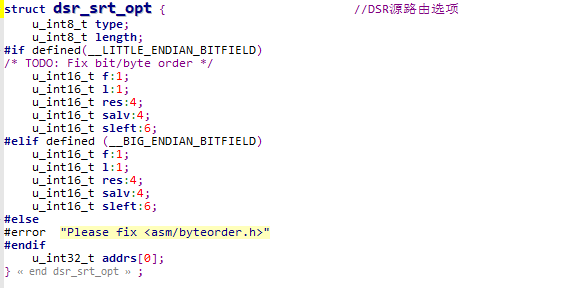
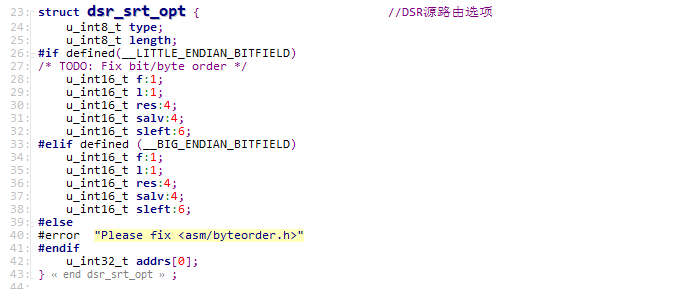
some progress

Changed region(s): [[0.0, 0.0, 0.4747, 1.0], [0.5637, 0.0, 0.801, 0.0625]]

diff --git a/homework/first.md b/homework/first.md
@@ -1,4 +1,4 @@
-##  概述
+# 概述
 
 DSR协议意为动态源路由协议，是在移动节点组成的多条无线自组网络中应用的路由协议。该协议主要由“路由发现”和“路由维护”两个机制组成。二者协同工作允许节点发现并维护到自组网中任一目的点的路由。协议的所有方面都是按需操作的，允许DSR路由数据包的开销自动适配到应对当前路由变化所需的大小。该协议允许到任一目的地的多条路由，并且允许每个发送方选择控制发送数据包时使用的路由。这种机制可用于实现负载平衡和增强数据传送的稳定性。
 
@@ -28,6 +28,8 @@ dsr_pkt_alloc(dsr-pkt.h)用于初始化一个包：
 
 ![avatar](E:\network\homework\添加选项头.png)
 
+	28-40: 首先定义每个选项头的固定部分，之后判断如果长度足够，则开始装载相关设置，将参数中缓冲区指针强制类型转换为一个指向DSR选项头的指针。Next header字段设置为数据分组的IP头的协议号，最后返回该指针。
+
 	发送包的节点在必要时向包添加DSR选项头，以携带路由协议所需的信息。一个包不能包含多于一个DSR选项头。DSR选项头通过执行以下步骤添加到包中：
 
 		1.在IP首部后面插入DSR选项头，但要在可能出现的任何其他首部之前插入。
@@ -38,14 +40,79 @@ dsr_pkt_alloc(dsr-pkt.h)用于初始化一个包：
 
 ### 1.3将DSR源路由选项添加进包中
 
-	DSR源路由选项结构体：
+RFC文档给出DSR源路由选项的定义:
+
+	![avatar](E:\network\homework\RFC源路由选项.png)
+
+DSR源路由选项结构体：
 
 ![avatar](E:\network\homework\DSR源路由选项.png)
+
+	23-42：sleft记录剩余路段的数量，即在到达最终目的地之前仍需要访问的中间节点的数量。变长数组addrs记录源路由的路径信息。其他字段同上。
+
+	发起分组的节点在需要时向分组添加DSR源路由选项，以便将来自该始发节点的源路由携带到分组的最终目的地址。
 
 添加源路由选项：
 
 ![avatar](E:\network\homework\添加源路由选项.png)
 
-	如果需要，发送数据包的节点向数据包中添加DSR源路由选项，以确保将源路由信息从该节点传送到数据包的最终目的地址。具体来说，添加DSR源路由选项的节点构造DSR源路由选项，并按照一下步骤修改IP数据包：
+	297-312：选项头固定部分定义，缓冲区长度判断及指针转换同上，然后开始装载选项字段，将类型设置为源路由选项，初始化长度，标志位，抢救次数等，随后数据分组中的地址被复制到DSR源路由选项中的addrs数组字段。
+
+	如果需要，发送数据包的节点向数据包中添加DSR源路由选项，以确保将源路由信息从该节点传送到数据包的最终目的地址。具体来说，添加DSR源路由选项的节点构造DSR源路由选项，并按照以下步骤修改IP数据包：
 
 		1.节点创建DSR源路由选项，并将其追加到包中的DSR选项头。
+
+		2.DSR源路由选项（n）中包含的Address[i]字段的数量是源路由中的中间节点数量。DSR源路由选项中的segment left字段初始化为n。
+
+		3.数据包源路由中的地址被复制到DSR源路由选项中的顺序地址[i]字段中，其中 i= 1,2,…,n。
+
+		4.DSR源路由选项中的(F)位(First Hop External)是从标记包源路由中第一跳的外部位复制的，如路由缓存中所示。
+
+		5.DSR源路由选项中的(L)位(Last Hop External)是从标记包源路由中最后一跳的外部位复制的，如路由缓存中所示。
+
+		6.DSR源路由选项中的打捞字段(补救字段)初始化为 0。
+
+### 1.4 处理一个接收到的包
+
+	当一个节点收到任何数据分组时，如果该数据分组包含一个DSR选项头，那么该节点必须处理该DSR选项头中包含的所有选项。处理路由请求的代码实现如下：
+
+![avatar](E:\network\homework\dsr_recv1.png)
+
+	31-43:节点会跟据数据包携带的选项来进行不同的处理操作，调用的dsr_opt_recv函数通过对数据包中选项的类型进行识别然后返回对应的操作类型，随后使用switch语句根据返回的操作类型进行不同的操作，在这些分支中这里着重分析较为复杂的转发请求（DSR_PKT_FORWARD），代码如下：
+
+![avatar](E:\network\homework\dsr_recv_case_forward.png)
+
+	首先进行生存期ttl的判断，如果ttl小于一（即为0）则丢弃数据包，否则调用XMIT函数转发数据包，XMIT说如下函数dsr_dev_xmit的宏定义，函数代码如下：
+
+![avatar](E:\network\homework\dsr_xmit1.png)
+
+	其中，结构体sk_buff与m_buf类似，是linux系统中各层协议之间传递数据的重要载体，net_device结构体用来描述一个网络设备，dst字段标记目标地址：
+
+![avatat](E:\network\homework\dsr_xmit_p2.png)
+
+	
+
+497-507: 通过锁来实现dsr_node(描述当前节点信息)的并发安全性，将抢救网卡设备指定为当前节点的相应设备字段，随后调用dsr_skb_create函数（装填相关字段信息并返回一个sk_buff的指针）创建数据分组。
+
+515-538：随后开始向创建后的数据分组中装填mac地址相关字段，并调用dev_queue_xmit函数进行发送。
+
+	当某个节点接收到一个数据包时，如果这个数据包包含DSR选项头，该节点必须处理所有包含在该DSR选项头中的选项，步骤如下：
+
+	如果选项头中包含一个路由请求选项（路由发现），节点应该从路由请求中提取源路由，并将该路由信息添加到自己的路由缓存中。路由请求中的路由信息序列是地址发起者，地址[1]，地址[2]，...，地址[n]。每个地址是通过这条路由请求已经经过的节点。这里n是路由请求选项中记录的地址数。
+
+	在可能更新节点的路由缓存已响应路由请求选项中的路由信息之后，节点必须按照2.2节所述方式处理路由请求选项。
+
+	如果DSR选项头包含路由应答选项，节点应该从路由应答中提取源路由，并将该路由信息添加到其路由缓存中。
+
+	在可能更新节点的路由缓存已响应路由应答选项中的路由信息之后，如果数据包的IP目的地址与该节点的某个IP地址匹配，则节点必须按照2.6节所述方式处理路由应答选项。
+
+	如果DSR选项头包含ACK选项，节点应将从ACK源地址字段标识的节点到ACK目的地址字段表示的节点的单个链路添加到路由缓存。
+
+	在可能响应已确认选项中的路由信息更新节点的路由缓存之后，节点必须继续处理3.3节中描述的确认选项。
+
+	如果DSR选项头包含DSR源路由选项，节点应该从DSR源路由中提取源路由，并将该路由信息添加到其路由缓存中。如果打捞字段的值在DSR源路由选项是零，然后从DSR路由信息的源路由的顺序跳地址，如果打捞非零，从DSR路由信息来源途径是跳地址的顺序的值是在源中的源地址字段IP首部的数据包携带DSR源路由选项（原始数据报的发送者），每个地址[i]是DSR源路由中的地址[i]字段的值，目的地址是数据包的IP首部中目标地址字段的值（源路由的最后一跳地址）。
+
+	最后，如果数据包IP首部中的目标地址与该接收节点的IP地址（es）匹配，则删除DSR选项头和头部中包含的所有DSR选项，并将剩余的数据包向上传递到网络层。
+
+### 1.5处理收到的DSR源路由选项
+
